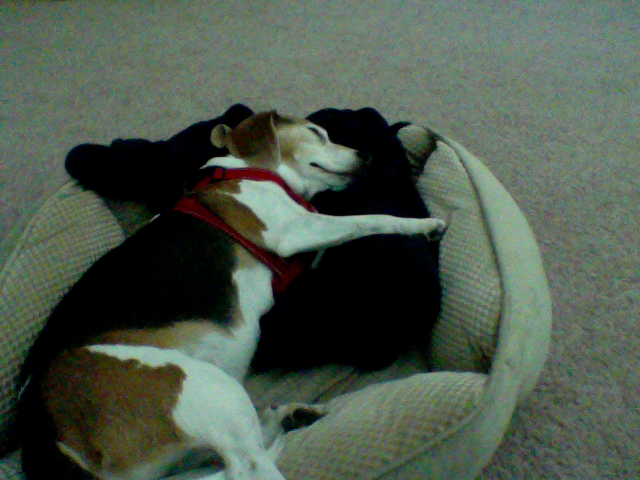
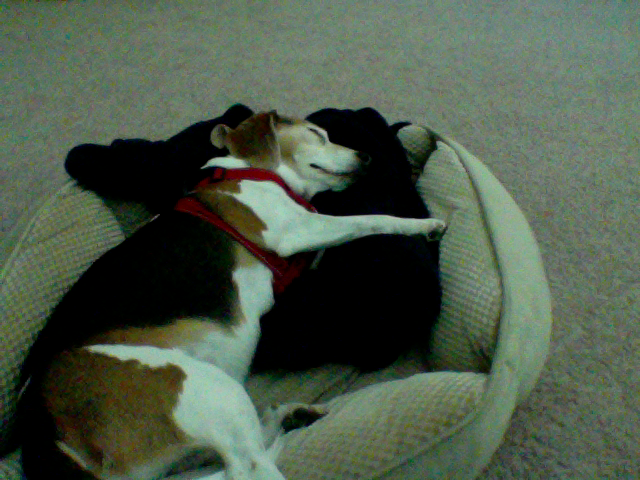
update at Month05Day08Time15:29

diff --git a/index.html b/index.html
@@ -39,7 +39,7 @@
       <!-- Example row of columns -->
       <div class="row">
         <div class="col-md-4">
-	<p>This picture was updated at Month05Day08Time15:28</p>
+	<p>This picture was updated at Month05Day08Time15:29</p>
 		<img src="5_pic.png" />
         </div>
       </div>
